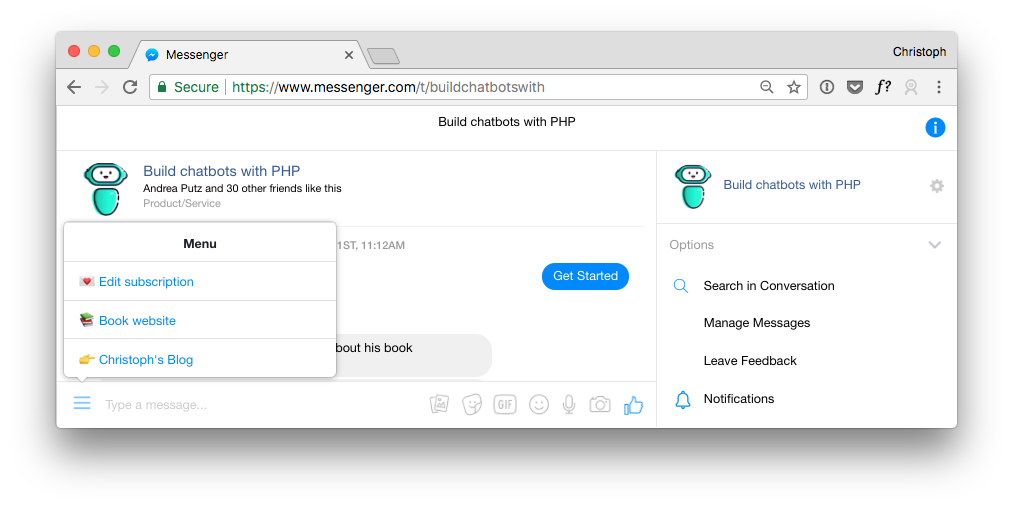
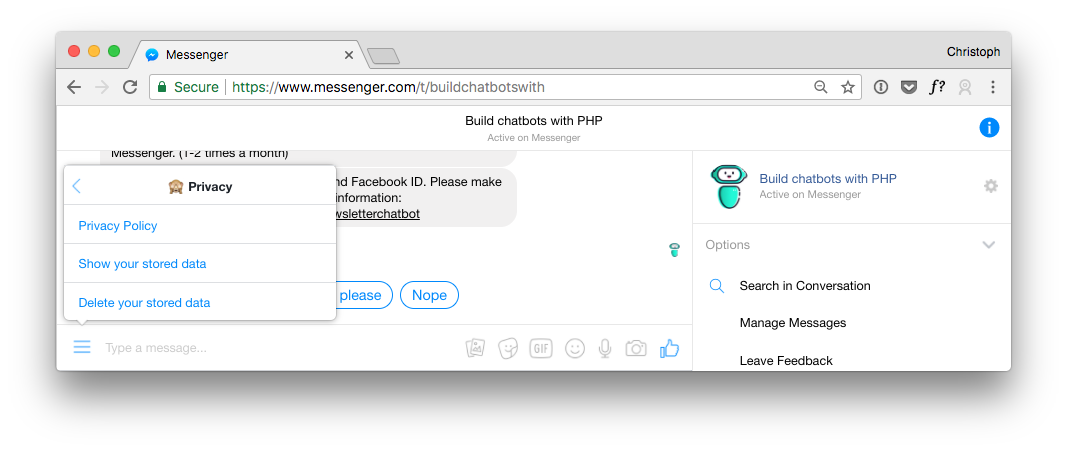
Update policy and add images to GDPR article

diff --git a/resources/views/policies/newsletterChatbot.blade.php b/resources/views/policies/newsletterChatbot.blade.php
@@ -33,7 +33,7 @@
             <li>Subscribe you</li>
             <li>Send you updates on the book Build Chatbots with PHP (Updates will be sent once or twice a month)</li>
         </ul>
-        <p>Who the data is shared with</p>
+        <p>Who the data is shared with:</p>
         <ul>
             <li>The application is deployed on servers from <a href="https://www.digitalocean.com/security/gdpr/">DigitalOcean</a> and <a href="https://all-inkl.com/datenschutz/">ALL-INKL.COM</a></li>
             <li>No other service is receiving any personal data</li>

diff --git a/content/posts/2018-04-25.make-your-chatbots-gdpr-compliant.md b/content/posts/2018-04-25.make-your-chatbots-gdpr-compliant.md
@@ -60,6 +60,16 @@ You are allowed to process personal data for the following reasons:
 * Processing is necessary for vital interests (e.g. transferring medical data)
 
 The GDPR distinguishes between the `data controller` and the `data processor`. The data controller determines the purpose and means of the processing of the personal data. The data processor processes this data. It gets much easier looking at an example. On my blog, I collect emails for my personal newsletter. I use MailChimp to store the subscribers and to send out the newsletters. In this case, I am the data controller because I decide what to collect and what happens with the data. MailChimp is the data processor.
+<br /><br />
+As a data controller, I need to make sure my data processors are GDPR compliant. This is done by a `data processing agreement`. Yeah that's right. You need such an agreement for every of your data processors. In the case of MailChimp, you can create such an agreement automatically on their [site](https://mailchimp.com/legal/forms/data-processing-agreement/). 
+<br /><br />
+Here is a short list of other services you might already make usage of:
+
+* Provider (DigitalOcean, Linode, etc.)
+* Analytic Tools (Google Analytics, etc.)
+* Email Marketing (MailChimp, Campaign Monitor etc.)
+
+Check all of them for given information about if they are GDPR compliant. Most of them also already have agreements prepared for you. If you don't find any information on their websites, contact them.
 
 ## ePrivacy Regulation
 
@@ -87,11 +97,11 @@ Here are the steps to make your chatbot GDPR compliant:
 
 ## Example
 
-I am running a chatbot for my book [Build Chatbots with PHP](https://christoph-rumpel.com/build-chatbots-with-php). It works as a newsletter. Instead of sending out emails, the user can subscribe to get news on the book via Facebook Messenger. Let's work together through my steps to make it GDPR compliant.
+I am running a chatbot for my book [Build Chatbots with PHP](https://christoph-rumpel.com/build-chatbots-with-php). It works as a messenger newsletter. The user can subscribe to get news on the book via Facebook Messenger. Let's work together through my steps to make it GDPR compliant.
 
 ### Check What Data You're Storing
 
-I am storing user information of everyone who is talking to the bot. These are the fields that I store:
+I am storing user information of everyone who is talking to the bot. These are the values that I store:
 
 * Facebook Scoped ID
 * First name
@@ -110,17 +120,15 @@ We could argue, that it is obvious that the chatbot needs personal data in order
  
  ### Use personal data for the agreed purpose only 
  
- The chatbot asks its users before adding them as a subscriber. It then sends them update messages on the book via Facebook messenger. The personal data is not used for anything else.
+ The chatbot asks its users before adding them as a subscriber. It then sends them news about the book via Facebook messenger. The personal data is not used for anything else.
  
  ### Use data protection by default
  
-  There is data protection by default and by design. `By Design` means we should think about data protection from the very beginning of a project. `By Default` means we should ensure that default settings should have the highest possible data privacy. It also means you shouldn't save the information you do not need.
+  There is data protection by default and by design. `By Design` means we should think about data protection from the very beginning of a project. `By Default` means we should ensure that default settings should have the highest possible data privacy. It also means you shouldn't save any information you do not need.
   <br /><br />
   Actually, I only need the user's name and the Facebook ID to send out messages. The other fields are not relevant to the use-case. As mentioned, I also store information about users even if they don't subscribe. That is not valid anymore, because there is no communicated purpose and no consent. I need to change my chatbot to only store the minimum of data required for sending out messages and to only store them for subscribed users.
   
-  <div class="blognote"><strong>Note:</strong> The GDPR also recommends to encrypt all stored personal data.</div>
-  
- 
+ <div class="blognote"><strong>Note:</strong> The GDPR also recommends to encrypt all stored personal data.</div>
  
  ### Provide Enough and Clear Information About Used Data
  
@@ -128,15 +136,22 @@ We could argue, that it is obvious that the chatbot needs personal data in order
  
   <img class="blogimage" alt="Screenshot showing subscribe information" src="/images/blog/gdpr_newsletterbot_start.png" />
  
- Obviously, the bot is not telling enough. I need to update this section to give users a better insight into what is happening. It must be very clear what they are subscribing to and what personal data is being used.
+ Obviously, the bot is not telling enough. I need to update this section to give users a better insight into what is happening. It must be very clear what they are subscribing to and what personal data is being used. You also need to mention the privacy policy.
+ 
+ <img class="blogimage" alt="Screenshot showing new information for subscriptions" src="/images/blog/gdpr_newsletterbot_subscription_info.png" />
  
 ### Give the User Access to Stored Personal Data
 
 My chatbot was missing a feature to show stored personal data. This is why I added a new section in the menu. It is now easy for the user to see the stored data.
+ <img class="blogimage" alt="Screenshot showing new information for subscriptions" src="/images/blog/gdpr_newsletterbot_menu.png" />
+ 
+ <img class="blogimage" alt="Screenshot showing new information for subscriptions" src="/images/blog/gdpr_newsletterbot_data_info.png" />
 
 ### Give the User the Possibility to Delete Stored Personal Data
 
 The same goes for the right of forgotten. In the menu is another option to let the user delete its data.
+
+ <img class="blogimage" alt="Screenshot showing new information for subscriptions" src="/images/blog/gdpr_newsletterbot_data_deletion.png" />
 
 ### Add a privacy policy
 
@@ -149,12 +164,9 @@ GDPR requires all companies operating in the EU to have a privacy policy. It sho
 * Who will it be shared?
 * How can I withdraw?
 
-You need to let users know about this policy before collecting personal data. This is how I added it to my conversation. Additionally, there is also new menu link to the privacy policy.
+You need to let users know about this policy before collecting personal data. As you have seen, I provide a link to it within the subscription information. You can check out [my Newsletter Chatbot policy](https://christoph-rumpel.com/policy-newsletterchatbot) to get a better understanding of what it could look like. Additionally, there is also new menu link to the new privacy policy.
 
-** IMAGE privacy policy **
-
-
-** IMAGE privacy policy menu **
+ <img class="blogimage" alt="Screenshot showing new information for subscriptions" src="/images/blog/gdpr_newsletterbot_menu.png" />
 
 ### Be Careful with Server Logs
 
